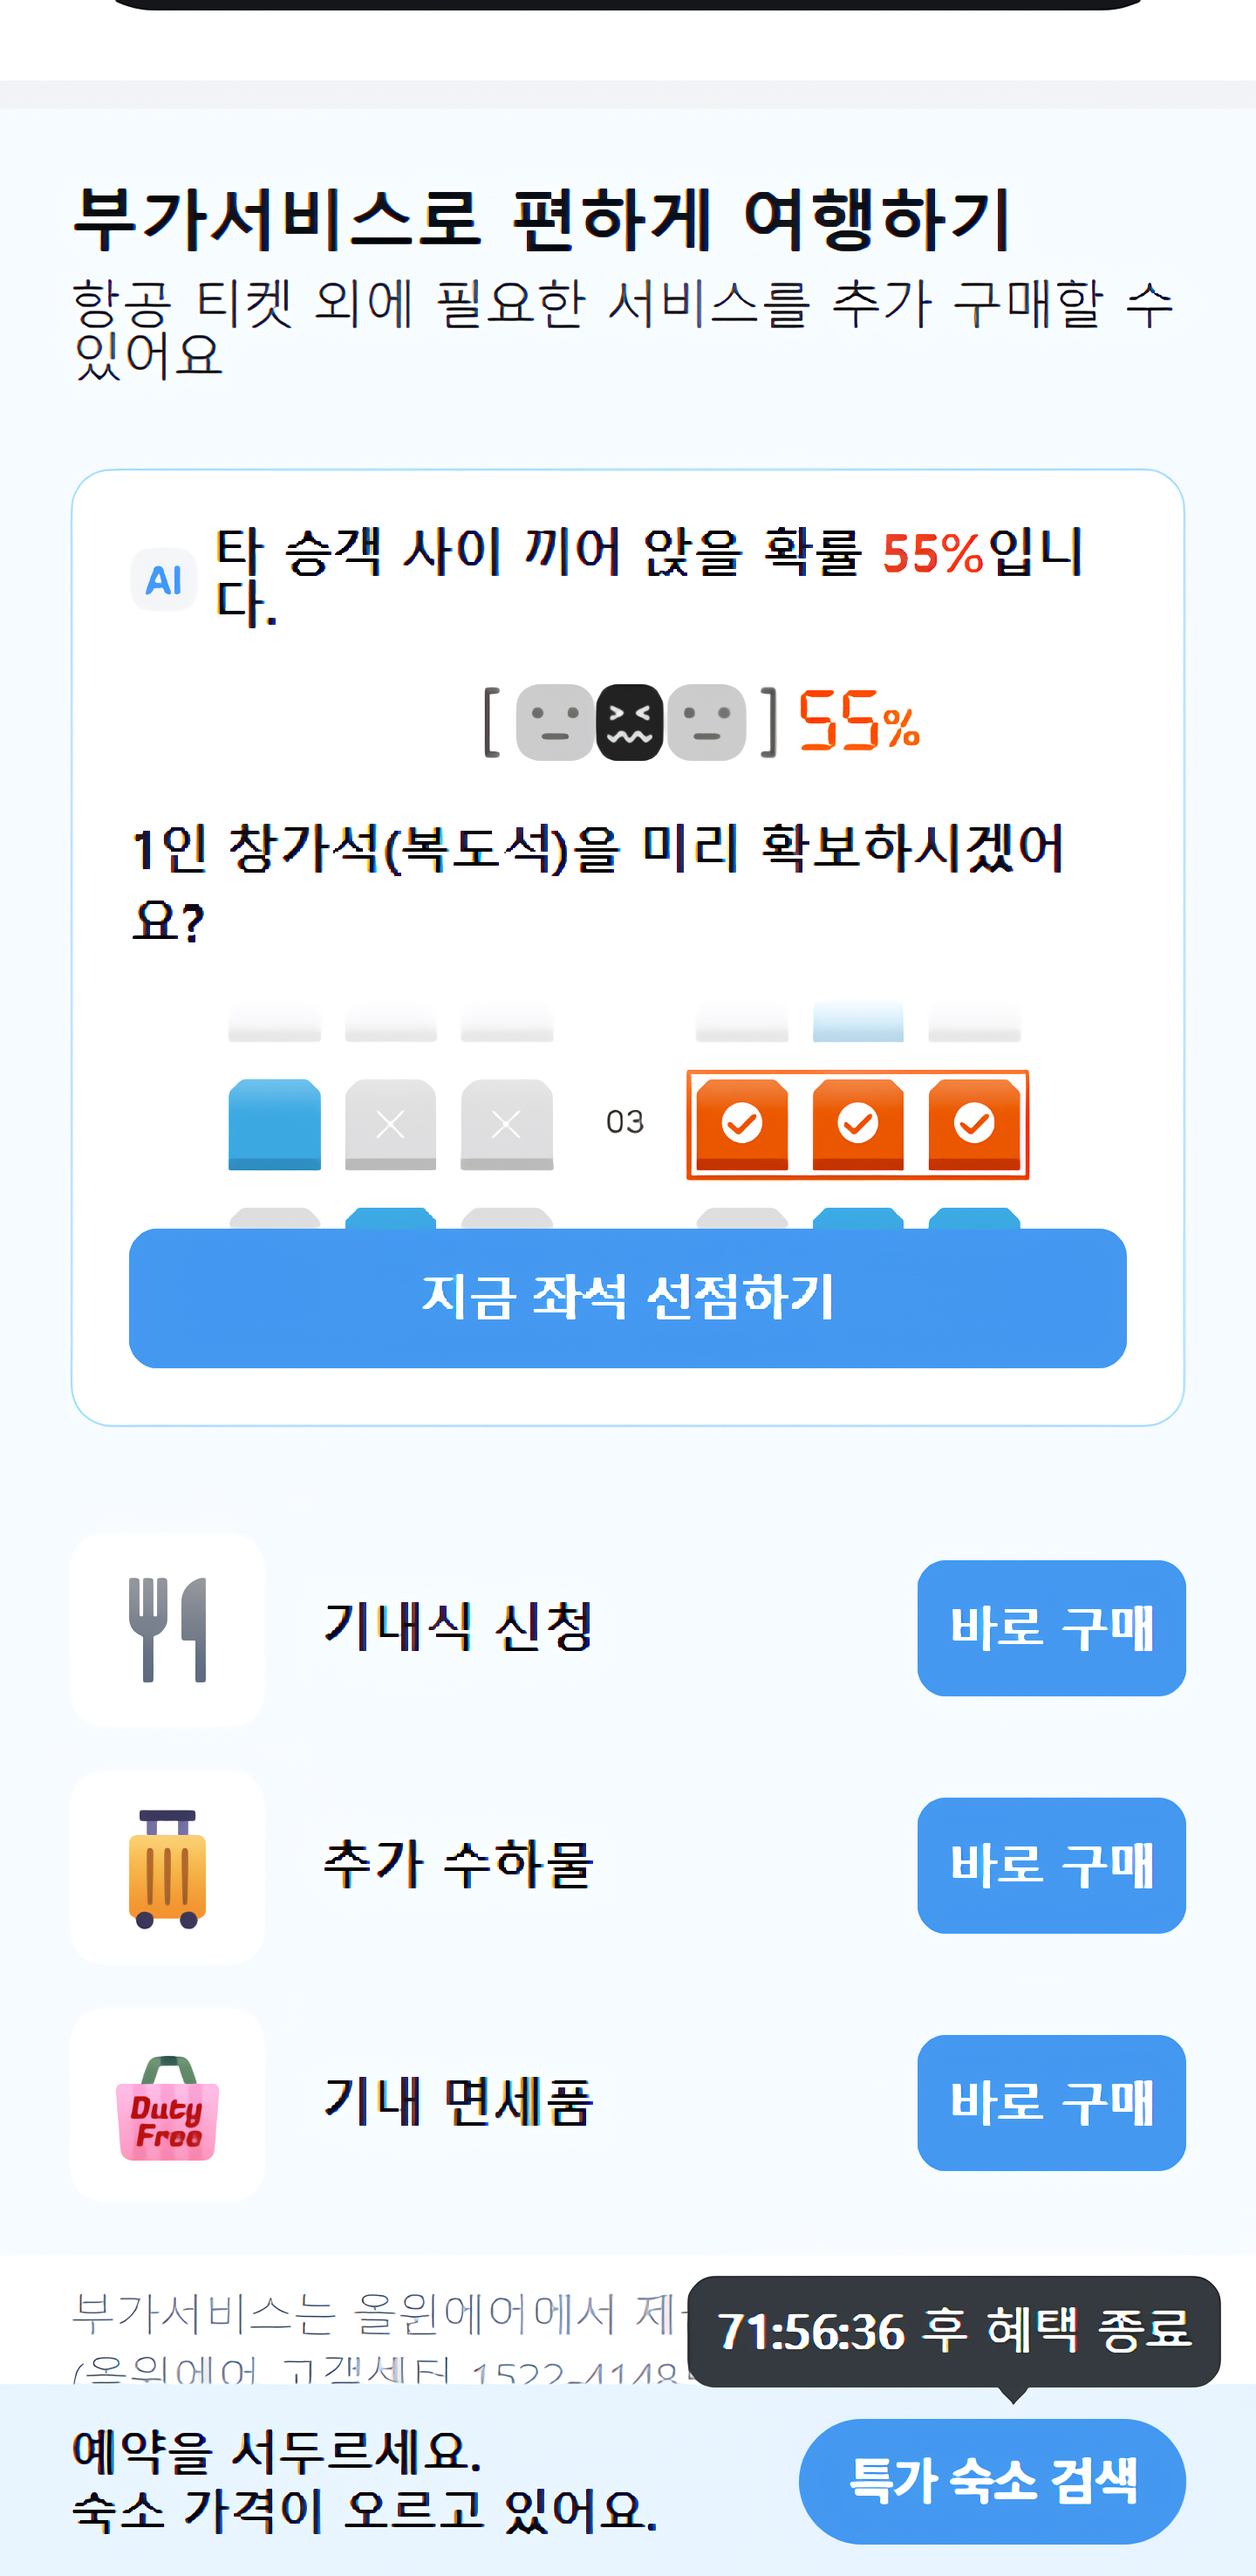
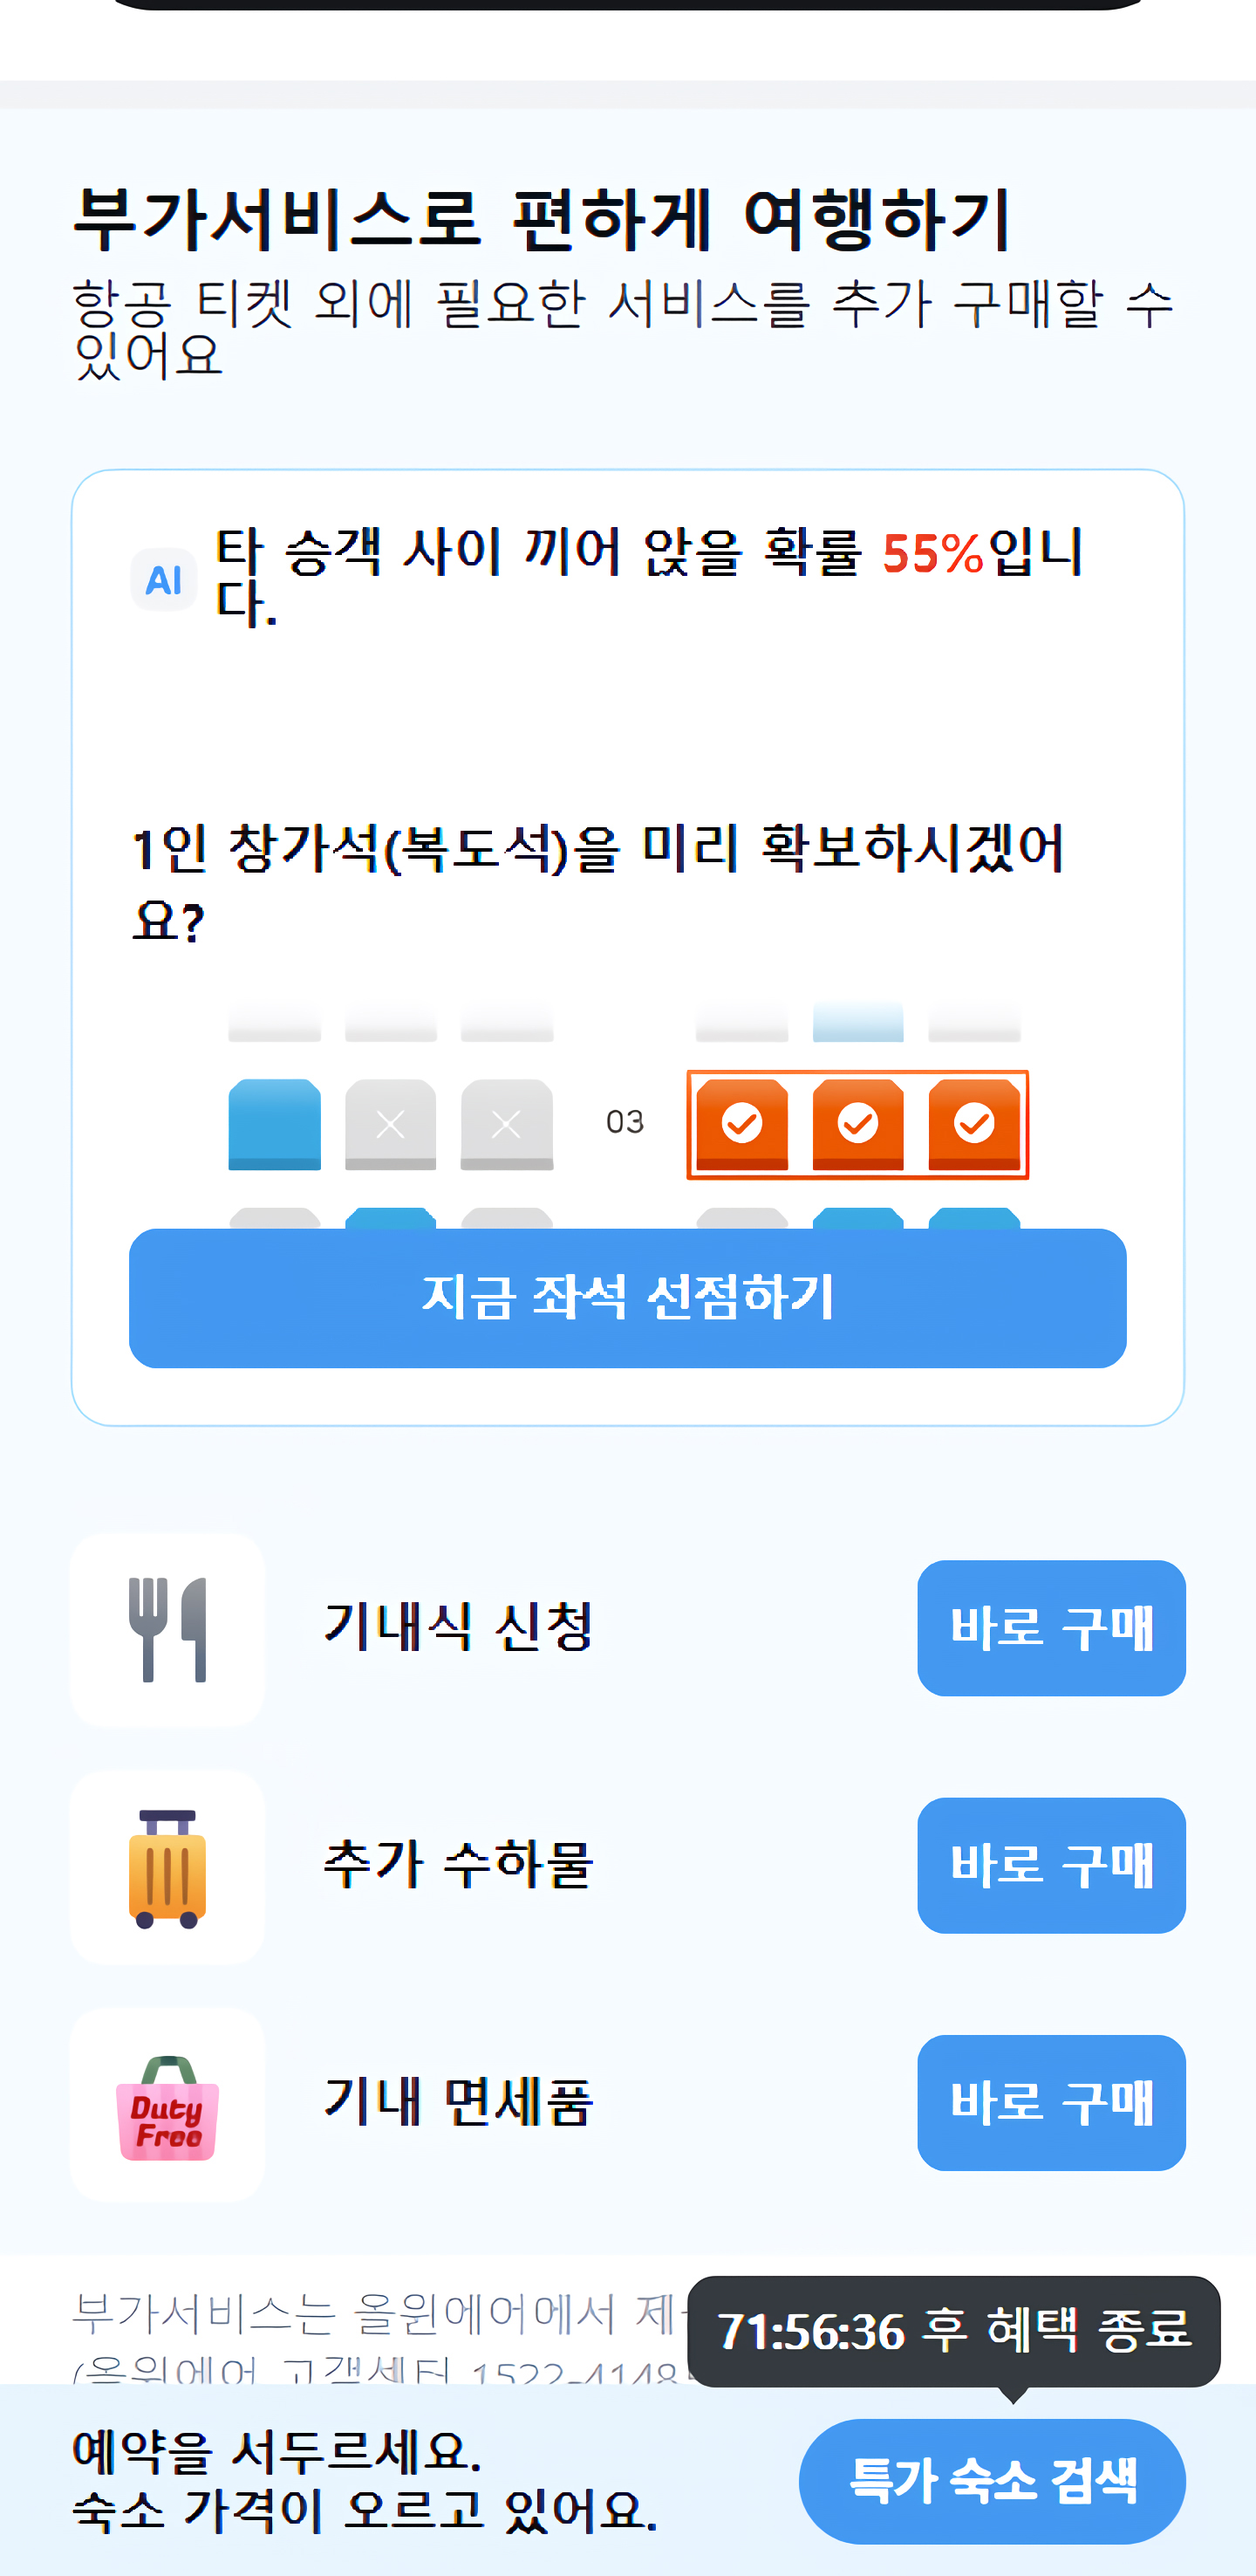
demo_250523-2

Changed region(s): [[0.4062, 0.2493, 0.7188, 0.3117]]

diff --git a/demo/resource/css/content.css b/demo/resource/css/content.css
@@ -6,30 +6,10 @@ html, body{
 	overscroll-behavior-y: none;
 	margin: 0px;
 }
-.allwin_demo{
-	position: relative;
-}
-.allwin_demo .alpha a {
-	width: 100%;
-	height: 100%;
-}
-.allwin_demo .alpha {
-	width: 100%;
-	position: relative;
-}
-.allwin_demo .alpha img {
-	max-width: 100%;
-	height: auto;
-	display: block;
-}
-.switch_btn{
-	font-size: 20px; 
-	padding: 5px; 
-	border: 1px solid #222; 
-	margin:10px 20px; 
-	border-radius: 5px;
-}
-/*-----------------------------------------*/
+
+
+/*-페이지맵----------------------------------------*/
+
 .allwin_demo_fst{
 	font-size: 13px;
 }
@@ -75,4 +55,43 @@ html, body{
 .alpha_table a::before{
 	content: '- ';
 	margin-right: 5px;
+}
+
+/*-사이트-------------------------------------------*/
+
+.allwin_demo{
+	position: relative;
+}
+.allwin_demo .alpha a {
+	width: 100%;
+	height: 100%;
+	position: relative;
+}
+.allwin_demo .alpha {
+	width: 100%;
+	position: relative;
+}
+.allwin_demo .alpha img {
+	max-width: 100%;
+	height: auto;
+	display: block;
+}
+.allwin_demo .adgif img{
+	position: absolute;
+	width: 180px;
+	top: 27.5%;
+	left: 50%;
+	
+  -webkit-transform: translate(-50%, -50%);
+  -ms-transform: translate(-50%, -50%);
+  transform: translate(-50%, -50%);
+	
+}
+
+.switch_btn{
+	font-size: 20px; 
+	padding: 5px; 
+	border: 1px solid #222; 
+	margin:10px 20px; 
+	border-radius: 5px;
 }

diff --git a/demo/index_mrt6.html b/demo/index_mrt6.html
@@ -32,7 +32,10 @@
 	<body>
 		<div class="allwin_demo">
 			<div class="alpha">
-				<a href="javascript:;" onclick="moveUrl();">			
+				<a href="javascript:;" onclick="moveUrl();">					
+				<div class="adgif">
+					<img id="img" src="./resource/img/single_55.gif">
+				</div>		
 				<img id="img" src="./resource/img/mrt_6.jpg"></a>
 			</div>
 		</div>

diff --git a/demo/index_mrt2.html b/demo/index_mrt2.html
@@ -18,7 +18,7 @@
 	<body>
 		<div class="allwin_demo">
 			<div class="alpha">
-				<a href="javascript:;" onclick="moveUrl();">			
+				<a href="javascript:;" onclick="moveUrl();">		
 				<img id="img" src="./resource/img/mrt_2.jpg"></a>
 			</div>
 		</div>
